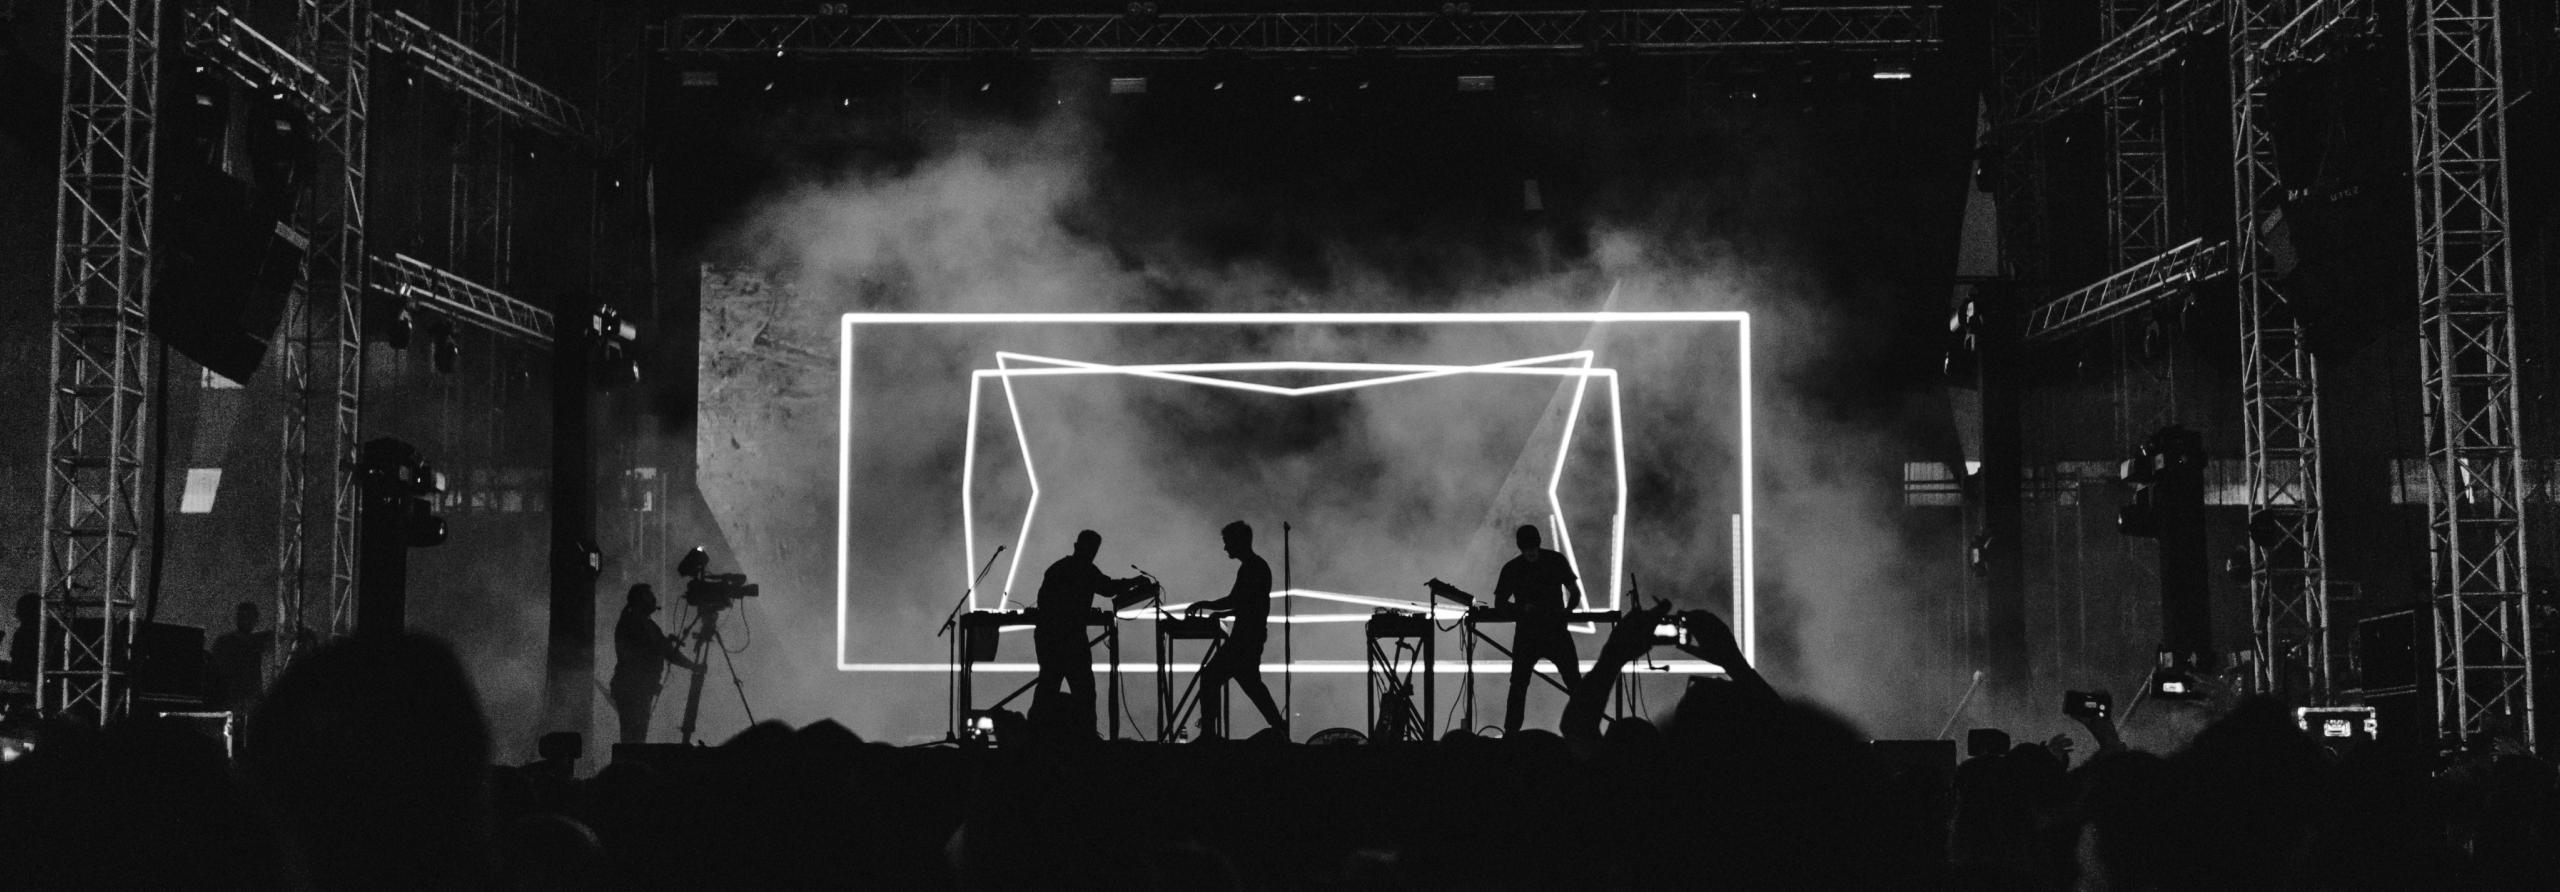
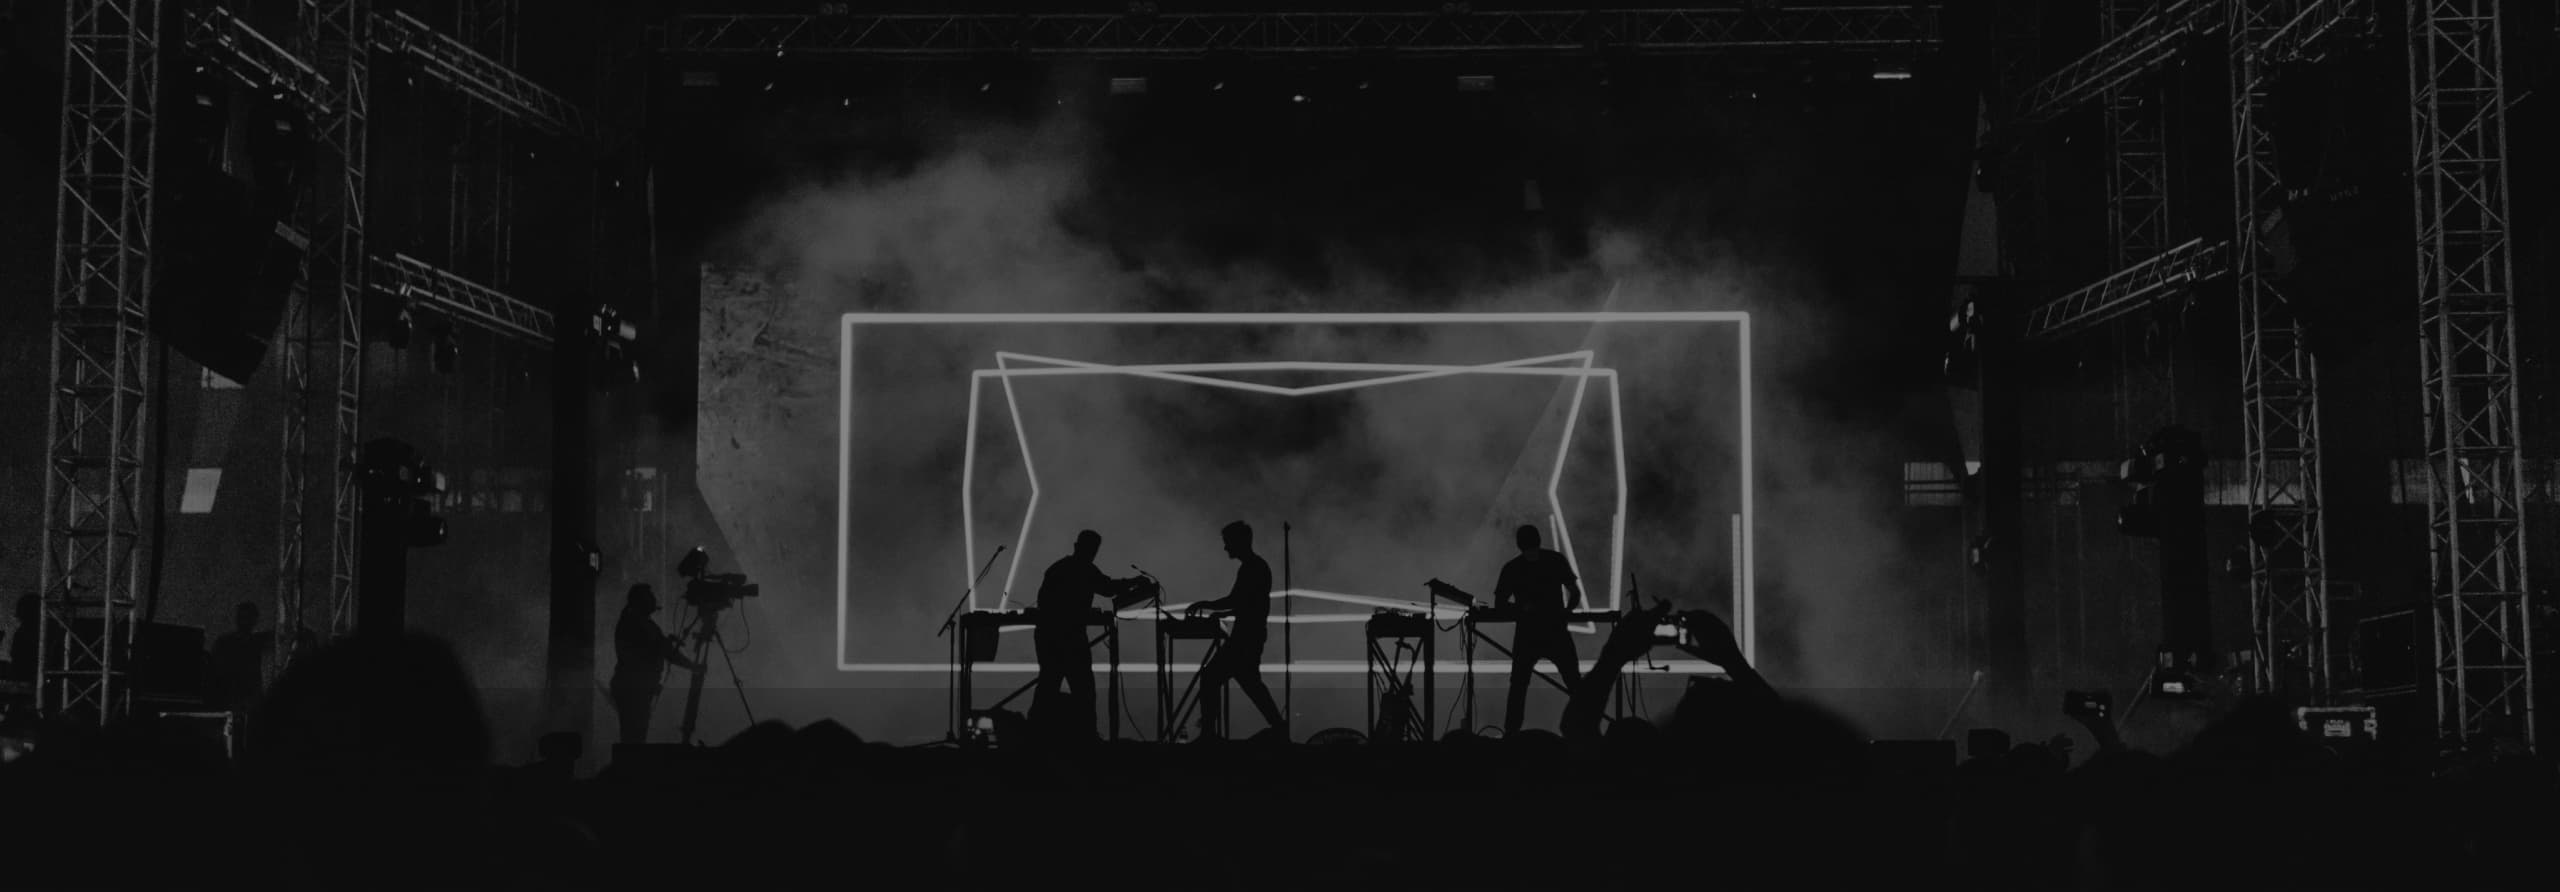
add hero overlay

diff --git a/src/sass/components/_body-background.scss b/src/sass/components/_body-background.scss
@@ -1,51 +1,51 @@
 .body {
-    background-color: #0e0e0e;
-    background-repeat: no-repeat;
-    background-size: contain;
-  
-    @media screen and (max-width: 767px) {
-      background-position: left 0 top 364px;
-  
-     background-image: url(../images/mobile/bg_body-mobile.png);
-  
-      @media screen and (min-device-pixel-ratio: 2),
-        screen and (min-resolution: 192dpi),
-        screen and (min-resolution: 2dppx) {
-        .body {
-          background-image: url(../images/mobile/bg_body-mobile@2x.png);
-        }
-      }
-    }
-  
-    @media screen and (min-width: 768px) and (max-width: 1279px) {
-      background-position: left 0 top 364px, center;
-  
-      background-image: url(../images/tablet/bg_body-tablet.png),
-        url(../images/tablet/decor-tablet.png);
-  
-      @media screen and (min-device-pixel-ratio: 2),
-        screen and (min-resolution: 192dpi),
-        screen and (min-resolution: 2dppx) {
-        .body {
-          background-image: url(../images/tablet/bg_body-tablet@2x.png);
-        }
-      }
-    }
-  
-    @media screen and(min-width: 1280px) {
-      background-position: center, center;
-      background-size: cover, 1280px;
-      // background-position: center, center top 100px;
-      // background-size: cover, 1280px;
-      background-image: url(../images/desktop/bg_body-desktop.png),
-        url(../images/desktop/decor-desktop.png);
-  
-      @media screen and (min-device-pixel-ratio: 2),
-        screen and (min-resolution: 192dpi),
-        screen and (min-resolution: 2dppx) {
-        .body {
-          background-image: url(../images/desktop/bg_body-desktop@2x.png);
-        }
+  background-color: #0e0e0e;
+  background-repeat: repeat;
+  background-size: contain;
+
+  @media screen and (max-width: 767px) {
+    background-position: left 0 top 364px;
+
+    background-image: url(../images/mobile/bg_body-mobile.png);
+
+    @media screen and (min-device-pixel-ratio: 2),
+    screen and (min-resolution: 192dpi),
+    screen and (min-resolution: 2dppx) {
+      .body {
+        background-image: url(../images/mobile/bg_body-mobile@2x.png);
       }
     }
   }
+
+  @media screen and (min-width: 768px) and (max-width: 1279px) {
+    background-position: left 0 top 364px, center;
+
+    background-image: url(../images/tablet/bg_body-tablet.png),
+      url(../images/tablet/decor-tablet.png);
+
+    @media screen and (min-device-pixel-ratio: 2),
+    screen and (min-resolution: 192dpi),
+    screen and (min-resolution: 2dppx) {
+      .body {
+        background-image: url(../images/tablet/bg_body-tablet@2x.png);
+      }
+    }
+  }
+
+  @media screen and(min-width: 1280px) {
+    background-position: center, center;
+    background-size: cover, 1280px;
+    // background-position: center, center top 100px;
+    // background-size: cover, 1280px;
+    background-image: url(../images/desktop/bg_body-desktop.png),
+      url(../images/desktop/decor-desktop.png);
+
+    @media screen and (min-device-pixel-ratio: 2),
+    screen and (min-resolution: 192dpi),
+    screen and (min-resolution: 2dppx) {
+      .body {
+        background-image: url(../images/desktop/bg_body-desktop@2x.png);
+      }
+    }
+  }
+}

diff --git a/src/index.html b/src/index.html
@@ -23,8 +23,7 @@
     />
   </head>
 
-<body>
-
+  <body>
     <!-- Так добавляются фрагменты в главные HTML-файлы страниц. -->
     <include src="./partials/background.html"></include>
     <include src="./partials/section-header.html"></include>
@@ -34,20 +33,13 @@
     <include src="./partials/footer.html"></include>
     <include src="./partials/modal.html"></include>
 
-  
-
-
-
-  <!-- Скрипт идёт последним в разметке. В нём уже подключен главный SASS-файл. -->
-  <script src="./index.js"></script>
-  <div class="preloader">
-    <div class="preloader__row">
-   
-      <div class="preloader__item"></div>
-      <div class="preloader__item"></div>
+    <!-- Скрипт идёт последним в разметке. В нём уже подключен главный SASS-файл. -->
+    <script src="./index.js"></script>
+    <div class="preloader">
+      <div class="preloader__row">
+        <div class="preloader__item"></div>
+        <div class="preloader__item"></div>
+      </div>
     </div>
-  </div>
- 
-</body>
-
+  </body>
 </html>

diff --git a/src/sass/components/_background.scss b/src/sass/components/_background.scss
@@ -5,17 +5,16 @@
   max-width: 100%;
 } */
 
-.background__image--header {
-  @media screen and (max-width: 767.98px) {
-    max-height: 461px;
-  }
-
-  @media screen and (min-width: 768px) {
-    max-height: 622px;
+.background__image--header,
+.background__header {
+  @media screen and (max-width: 1279.98px) {
+    max-height: 364px;
+    background-image: url(../images/tablet/overlay-tablet.png);
   }
 
   @media screen and (min-width: 1280px) {
-    max-height: 1035.52px;
+    max-height: 446px;
+    background-image: url(../images/desktop/overlay-desktop.png);
   }
 }
 
@@ -25,9 +24,6 @@
   left: 0;
   top: 0;
   width: 100%;
-  max-width: 100%;
-  /*  min-width: 100%;
-  max-width: 1280px; */
 }
 
 .background__body {
@@ -35,7 +31,6 @@
   z-index: -20;
   left: 0;
   top: 300px;
-  width: 100%;
+  max-width: 100%;
   background-repeat: repeat;
 }
-
